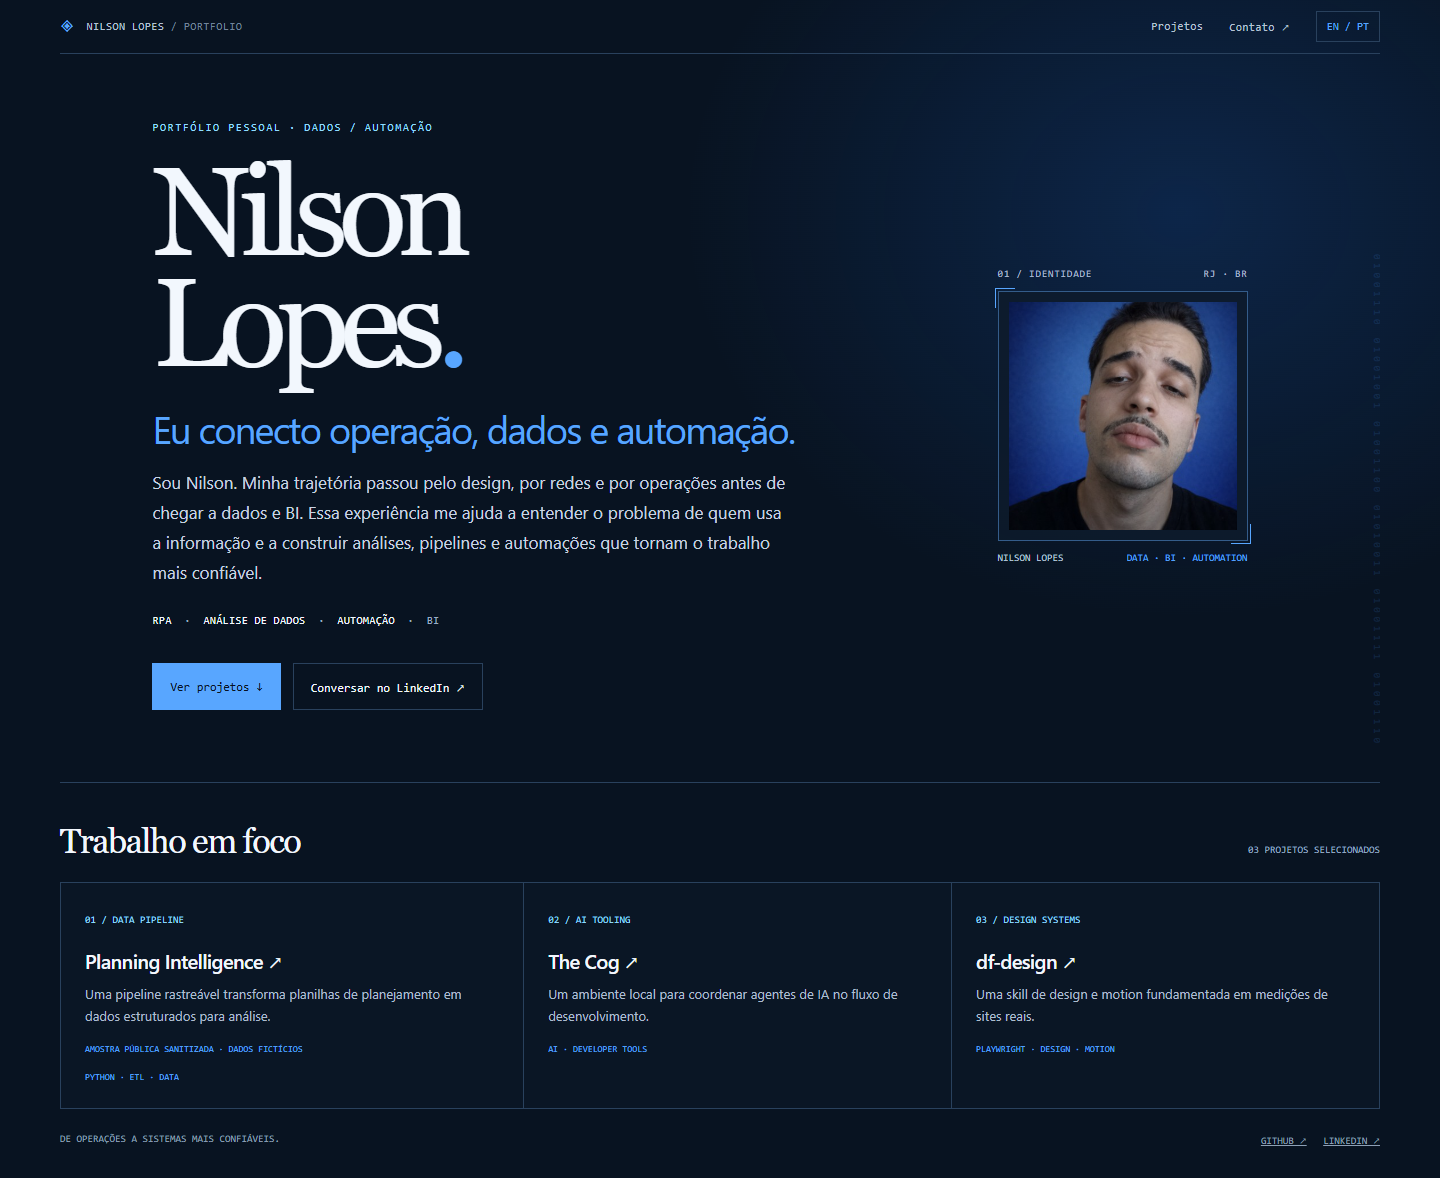
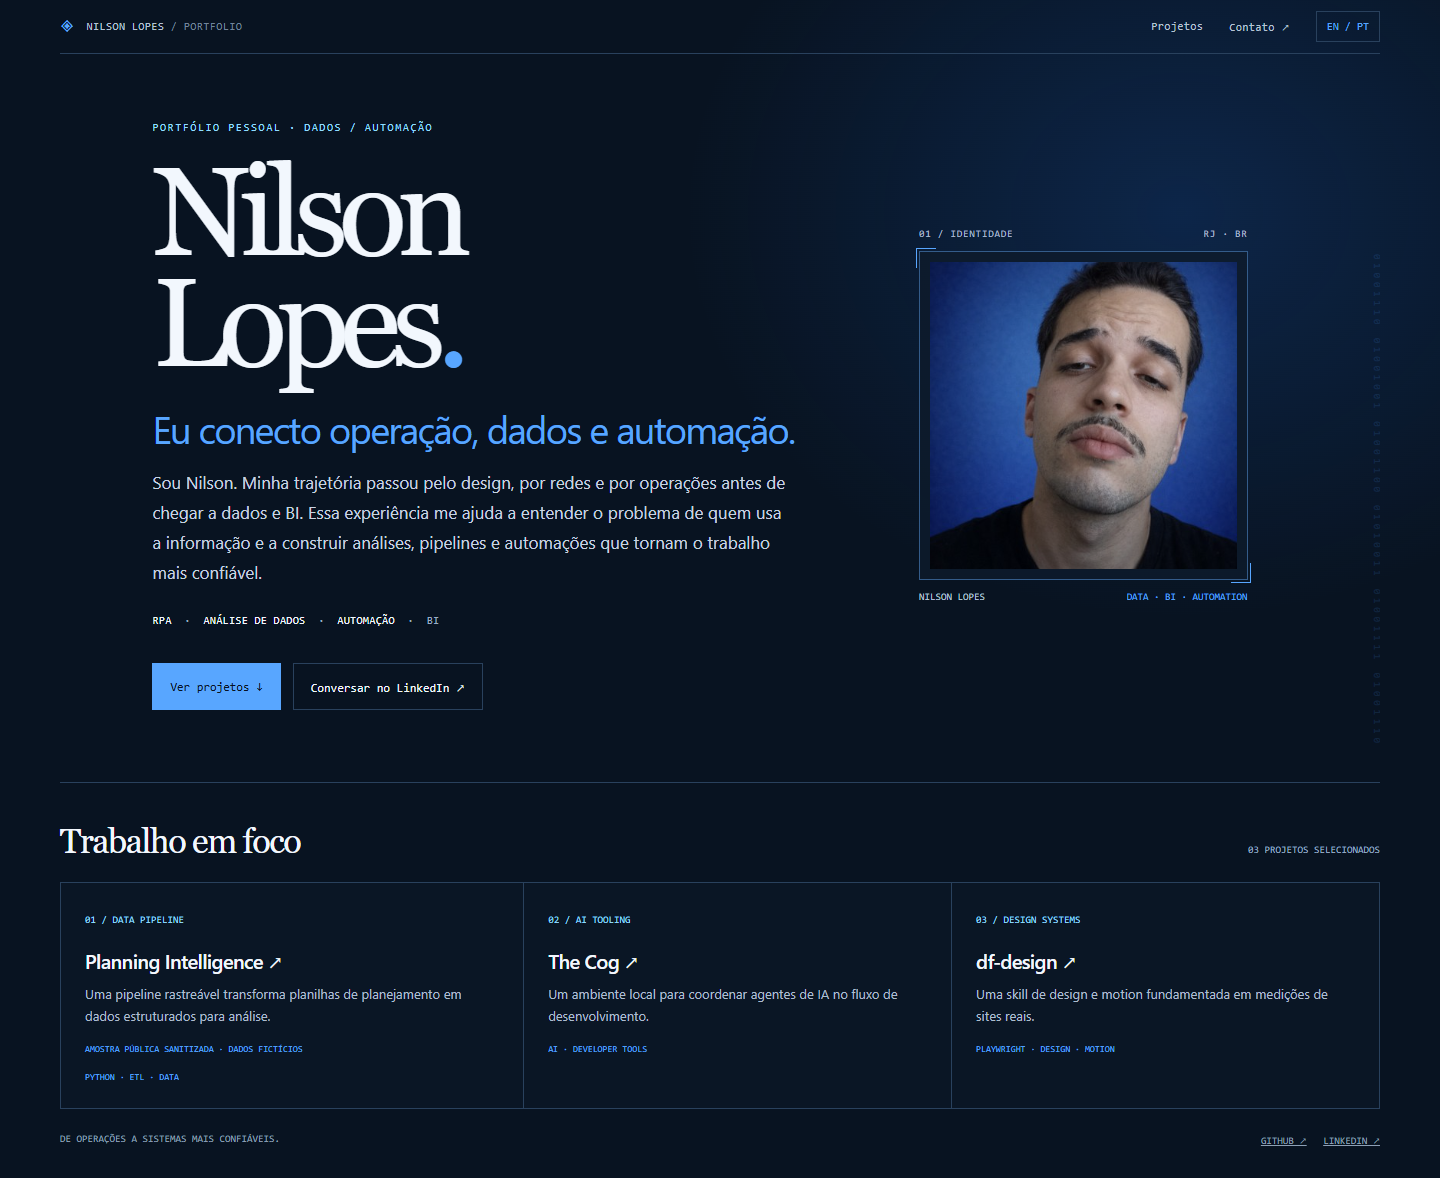
Give the portrait more presence in the hero preview

Changed region(s): [[0.625, 0.1834, 0.875, 0.5195]]

diff --git a/design/preview/index.html b/design/preview/index.html
@@ -65,7 +65,7 @@
     .button.primary { background: var(--signal); color: #071321; border-color: var(--signal); }
     .button:hover { border-color: var(--signal); }
     .button.primary:hover { background: #8dc7ff; }
-    .portrait-wrap { justify-self: end; width: min(100%, 250px); position: relative; }
+    .portrait-wrap { justify-self: end; width: min(100%, 330px); position: relative; }
     .portrait-meta { display: flex; justify-content: space-between; margin-bottom: 11px; color: #a9b9cd; font: 10px var(--mono); letter-spacing: .08em; }
     .portrait-frame { position: relative; border: 1px solid #345c8a; padding: 10px; background: rgba(13,26,43,.84); }
     .portrait-frame::before, .portrait-frame::after { content: ""; position: absolute; width: 19px; height: 19px; border-color: var(--signal); border-style: solid; }
@@ -98,7 +98,7 @@
       .role-line { margin-top: 22px; font-size: 26px; }
       .intro { font-size: 15px; line-height: 1.7; }
       .focus { max-width: 340px; }
-      .portrait-wrap { justify-self: start; width: 194px; margin-left: 10px; }
+      .portrait-wrap { justify-self: start; width: min(260px, 72vw); margin-left: 10px; }
       .projects { grid-template-columns: 1fr; }
       .project { min-height: auto; padding: 20px; }
       .project + .project { border-left: 0; border-top: 1px solid var(--line); }

diff --git a/design/portfolio-identity-revision.md b/design/portfolio-identity-revision.md
@@ -20,8 +20,9 @@ an abstract service.
   royal blue and cyan in Nilson's portrait. Use a deep navy ground (`#081321`),
   a bright blue signal (`#58a6ff`), and pale cyan (`#91dcff`); keep blue as the
   single loud accent. ASCII remains a supporting motif. A real portrait and
-  human introduction lead the page; terminal styling must not obscure the
-  person or the projects.
+  human introduction lead the page. Give the portrait about 310px of presence
+  on desktop and 240px on mobile so it holds its own beside the display type;
+  terminal styling must not obscure the person or the projects.
 - **Assets:** use Nilson's own material only. The concept preview initially used
   the GitHub crop; Nilson has now supplied the original 400 × 400 portrait. Use
   that portrait in the concept and final site. Do not use stock or generate a
